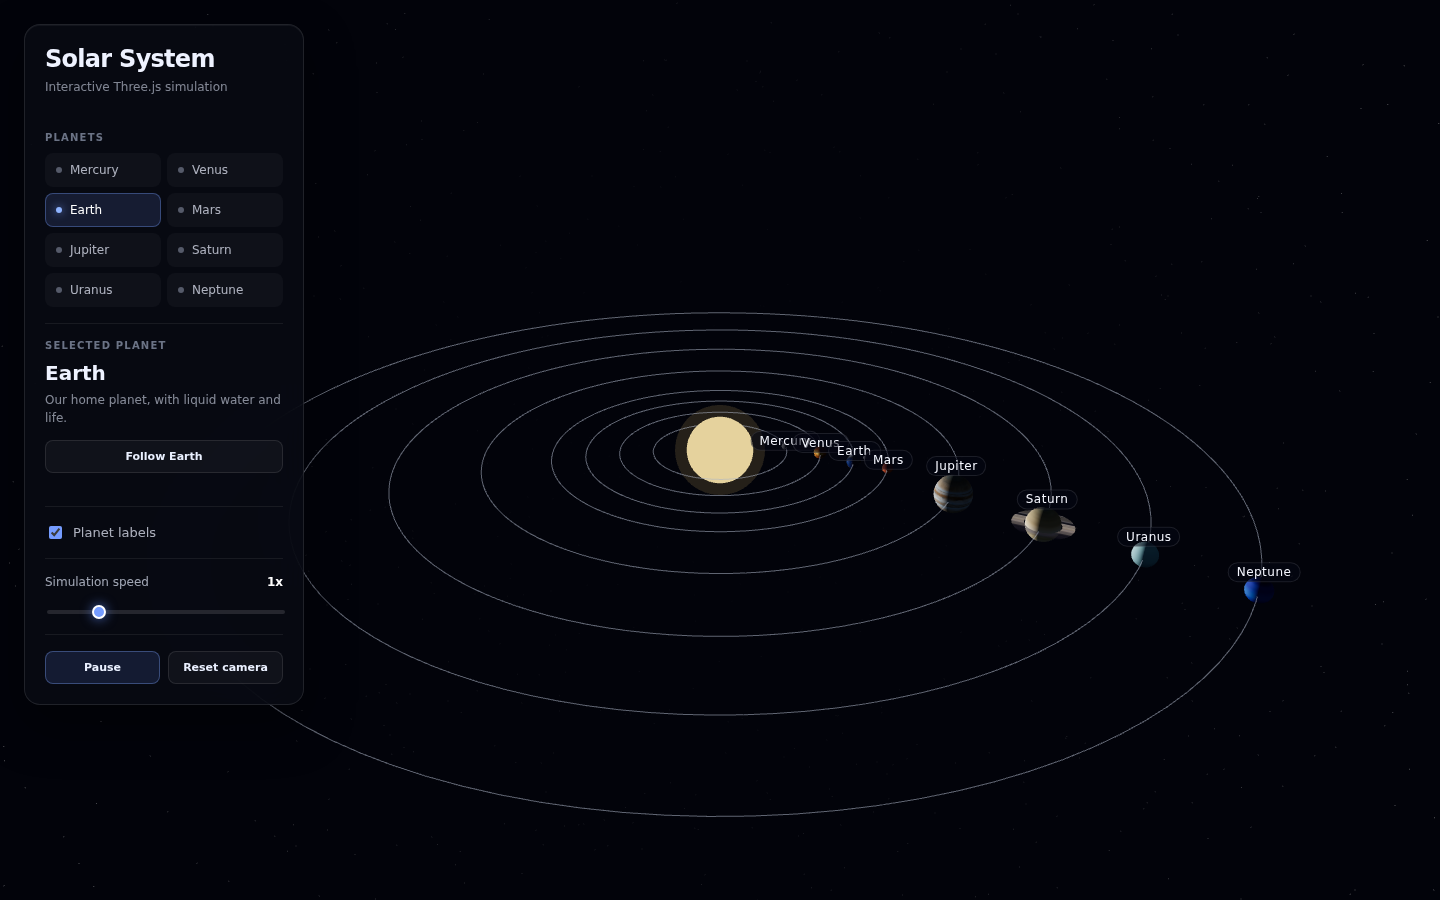
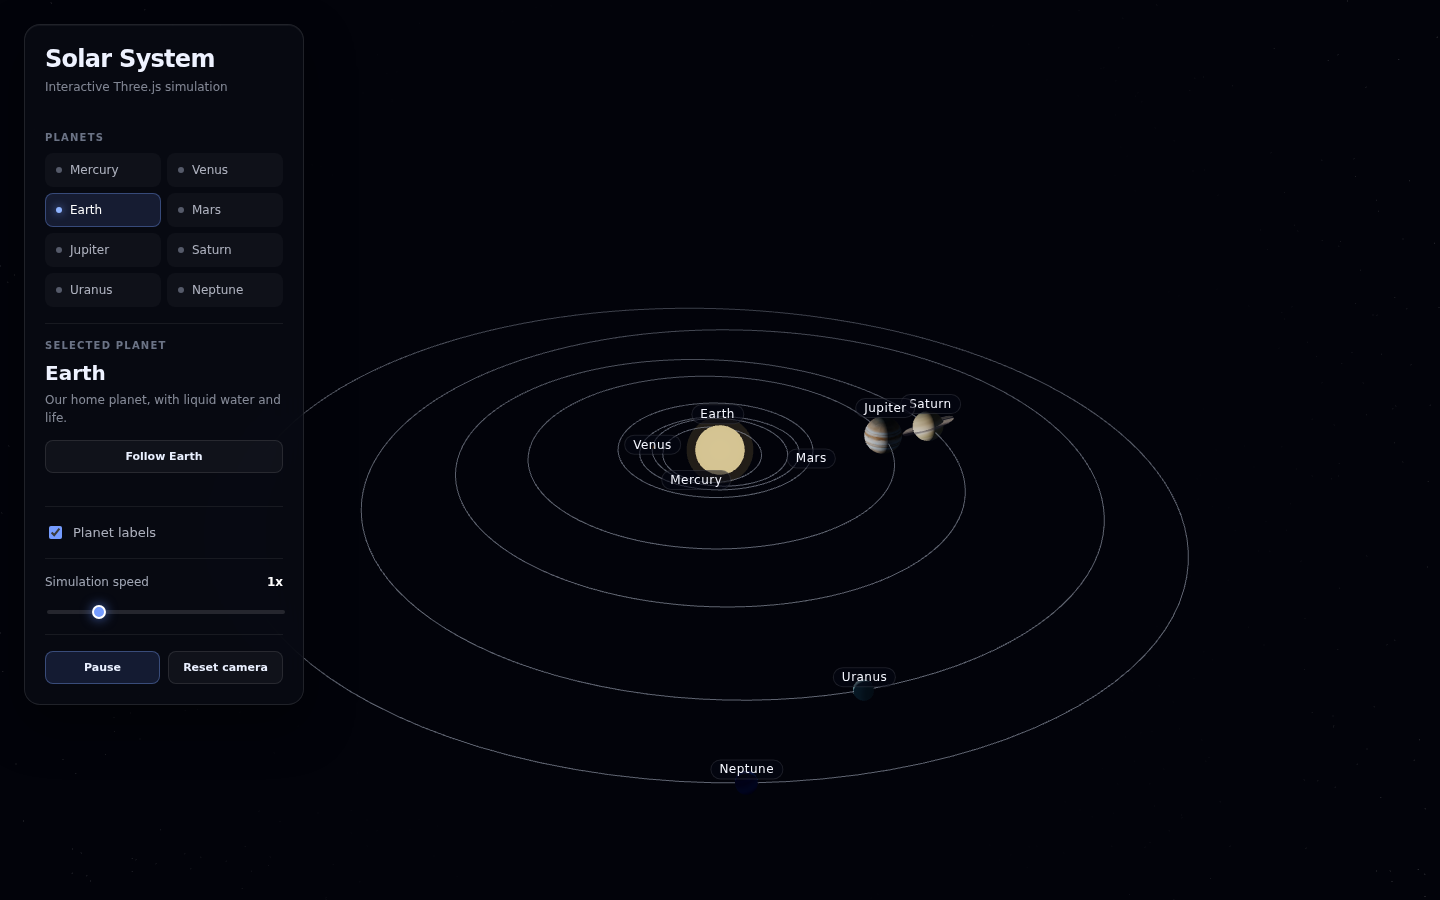
docs: describe the orbits and sizes, and take them off the roadmap
How it works explains the orbital elements, the scale and Kepler's equation; Features, the
screenshots and CLAUDE.md follow, with a new invariant for the order of the planets and the stylised
values listed as known limitations.

diff --git a/CLAUDE.md b/CLAUDE.md
@@ -50,9 +50,10 @@ scripts/         README screenshots
 
 ## 5. Architecture
 
-- **`CONFIG` drives everything.** Camera, renderer, controls, focus behaviour, the Sun, stars, orbits, and `CONFIG.planets` (size, distance, speeds, description). The UI planet buttons are built from the same object, so adding a planet to `CONFIG.planets` and `TEXTURES` adds it to the scene _and_ the panel. Materials, the ambient light, Earth's cloud shell, Saturn's ring and `CONFIG.simulation.timeScale` (which turns the config's speeds into radians per second, through `simulationStep`) live there too: no number in the code below `CONFIG` is a tuning value.
+- **`CONFIG` drives everything.** Camera, renderer, controls, focus behaviour, the Sun, stars, orbits, and `CONFIG.planets` (radius in km, J2000 orbital elements, axial tilt, speeds, description), with `CONFIG.scale` turning kilometres and AU into scene units. The UI planet buttons are built from the same object, so adding a planet to `CONFIG.planets` and `TEXTURES` adds it to the scene _and_ the panel. Materials, the ambient light, Earth's cloud shell, Saturn's ring and `CONFIG.simulation.timeScale` (which turns the config's speeds into radians per second, through `simulationStep`) live there too: no number in the code below `CONFIG` is a tuning value.
 - **Loading.** A `THREE.LoadingManager` drives the progress bar (`#loader-bar`, `#loader-status`); `hideLoader()` removes it when every texture has loaded. Texture URLs are built from `import.meta.env.BASE_URL`, which is relative (`./`) in builds. With reduced motion there is no fade and so no `transitionend`, so the loader is removed at once rather than left at opacity 0, where screen readers would still read it.
-- **Structure of a planet.** An orbit pivot (a rotating `Object3D` at the Sun) holds the planet mesh at its distance. Earth has a second, transparent cloud sphere rotating on its own. The Moon has its own pivot on Earth. Saturn gets a ring mesh with a transparent texture.
+- **Structure of a planet.** An anchor `Object3D`, added to the scene in config order, is placed on the planet's ellipse every frame; under it, a tilt group carries the real axial tilt and holds the spinning mesh. Earth has a second, transparent cloud sphere rotating on its own, and the Moon a pivot on the anchor. Saturn's ring is a child of its mesh, so it shares Saturn's tilt.
+- **Orbits.** `orbitGeometry` turns the elements into `semiMajor`, `semiMinor`, `eccentricity`, two plane directions (`towardsPerihelion`, `quarterOnward`) and the J2000 `startingMeanAnomaly`. `updatePlanetRotation` advances `planet.meanAnomaly` by `orbitSpeed` × `simulationStep`, and `placeOnOrbit` solves Kepler's equation (`solveKepler`, Newton's method) and writes the position with `pointOnOrbit`. `createOrbit` traces the line through `pointOnOrbit` too. `sceneRadius` converts kilometres; `planet.radius` holds the result, and nothing reads a radius from the config directly.
 - **Animation** is driven by elapsed time, multiplied by the simulation speed, so it is frame-rate independent. Pause sets the speed multiplier to zero and keeps rendering, so the controls still work.
 - **Panel.** `createUI` puts the header first and wraps every other section (`planetListMarkup`, `planetInfoMarkup`, `labelsControlMarkup`, `speedControlMarkup`, `actionsMarkup`) in `#panel-body`; `queryUIElements` collects what the code updates and `bindUIEvents` wires it. `setPanelFolded` sets `data-folded`, the toggle's `aria-expanded` and text, and the summary; `focusPlanet` folds the panel when `phoneLayout` (the same `width <= 640px` as style.css) matches. The CSS folds only inside that media query.
 - **Focus and follow.** `focusPlanet` sets `state.followed`, computes where the camera ends relative to the planet (`focusOffset`) and starts `state.flight` (or jumps, with reduced motion). Each frame `updateFollow` either advances the flight (`updateFlight`, eased, towards the planet's current position, controls disabled) or rides along (`rideAlong`: camera and target turned around the Y axis by the angle the planet travelled, then moved with it). `stopFollowing` leaves the camera where it is. `updateFollowUI` keeps `#follow-button` (`aria-pressed`) and the `#follow-status` live region in step.
@@ -67,11 +68,12 @@ scripts/         README screenshots
 3. The UI element ids (`#planet-name`, `#pause-button`, `#speed`, `#speed-value`, `#loader`, `#follow-button`, `#follow-status`, `#panel-toggle`, `#panel-summary`, `#labels-toggle`, `.planet-label`) are used by the tests.
 4. Texture credits (CC BY 4.0) stay in the README.
 5. Pixel ratio is capped (`getPixelRatio()`) for performance on HiDPI screens.
+6. **Planets in config order.** `init` registers the planets and adds their anchors to the scene in `CONFIG.planets` order, after every texture has loaded; labels, picking and the panel rely on it. Do not register a planet inside `createPlanet`, where textures decide the order.
 
 ## 7. Conventions (project-specific)
 
 - **One config:** sizes, distances, speeds, colours and counts live in `CONFIG` at the top of `src/main.js`; the scene and the UI are both built from it.
-- **Hierarchy over maths:** motion is composed from pivots (`Object3D`) rather than computed positions.
+- **Real data, one scale:** planets are described in kilometres, AU and degrees, as published; only `CONFIG.scale` and the values marked stylised are choices of this project.
 - **Time:** every animated value is multiplied by the frame delta and the speed multiplier, never by a per-frame constant.
 - **Plain JavaScript:** ES modules, no framework, no UI library; the UI is created in code and styled with plain CSS.
 
@@ -81,7 +83,7 @@ scripts/         README screenshots
 
 ## 9. Recipes
 
-- **Add a planet:** add an entry to `CONFIG.planets` (radius, distance, orbit and rotation speed, description) and a texture in `TEXTURES` and `public/textures/<name>/`, as WebP.
+- **Add a planet:** add an entry to `CONFIG.planets` (radius in km, the six J2000 orbital elements, axial tilt, orbit and rotation speed, description) and a texture in `TEXTURES` and `public/textures/<name>/`, as WebP.
 - **Change the look:** tweak `CONFIG` first; the factories read from it.
 
 ## 10. CI/CD
@@ -99,7 +101,7 @@ The jobs are _Lint and types_ (formatting and lint), _Build_ (uploads `dist/`), 
 
 ## 12. Known limitations
 
-- Circular orbits and stylised sizes and distances (see the roadmap in the README).
+- The Sun's size, the Moon's distance and the orbital and spin speeds are stylised (see How it works in the README); distances are compressed by a square root.
 
 ## House style (identical in every repository of this portfolio)
 

diff --git a/README.md b/README.md
@@ -13,9 +13,10 @@ Eight textured planets orbit a light-emitting Sun against a procedurally generat
 
 ## Features
 
-- Eight planets with individual textures, sizes, orbital distances and rotation speeds
+- Eight planets on elliptical, inclined orbits from their real orbital elements, moving faster near the Sun as Kepler's laws say, and starting where they were on 1 January 2000
+- True relative sizes, with Jupiter eleven times Earth's width, and the real axial tilts: Uranus rolls on its side, Venus spins upside down
 - Earth rendered as two layers: a surface sphere plus a semi-transparent cloud shell rotating at its own rate
-- The Moon orbiting Earth on its own pivot
+- The Moon orbiting Earth on its own pivot, at a stylised distance
 - Saturn with a textured ring mesh
 - Visible orbit lines for every planet
 - Procedural star field of 5,000 points
@@ -39,7 +40,7 @@ No framework, no UI library. Tested with [Playwright](https://playwright.dev/).
 
 A single `Scene` holds everything. A `PerspectiveCamera` (50° FOV) is driven by `OrbitControls` with damping and clamped zoom distance. The `WebGLRenderer` is configured with `SRGBColorSpace` output, ACES filmic tone mapping, anisotropic filtering on every texture, and a pixel ratio capped at 2 so high-DPI screens don't render four times the pixels for no visible gain. A `Fog` fades distant objects into the background colour.
 
-All tunable values (radii, orbital distances, speeds, colours, star count, light intensity) live in a single `CONFIG` object at the top of `src/main.js`, so the look of the scene can be changed without touching the logic.
+All tunable values (planet sizes and orbital elements, the scale, speeds, colours, star count, light intensity) live in a single `CONFIG` object at the top of `src/main.js`, so the look of the scene can be changed without touching the logic.
 
 ### Lighting
 
@@ -47,14 +48,17 @@ A `PointLight` placed inside the Sun mesh lights the planets from the centre out
 
 ### Planets and orbits
 
-Each planet is a `SphereGeometry` mesh with a `MeshPhongMaterial`, positioned at its orbital distance and parented to an `Object3D` pivot at the origin. Rotating the pivot moves the planet along its orbit; rotating the mesh spins the planet on its axis. Orbit lines are built from an `EllipseCurve` sampled into a `LineLoop`.
+Each planet is described by real data: its radius in kilometres, its axial tilt, and the six classical orbital elements for the J2000 epoch (semi-major axis, eccentricity, inclination, longitude of the ascending node, longitude of perihelion, mean longitude). `CONFIG.scale` turns them into scene units. Sizes are linear, so the planets keep their true ratios; distances go through a square root, which keeps every orbit's order and shape while bringing Neptune's 30 AU within reach of Mercury's 0.39. Two things stay stylised and say so in the config: the Sun, which at the planets' scale would be 109 Earth radii wide and swallow the inner orbits, and the Moon's distance.
+
+From the elements, each orbit gets its size and two directions that span its plane: towards perihelion, and a quarter of an orbit further on. On every frame the mean anomaly grows evenly with simulated time; Newton's method solves Kepler's equation, M = E − e sin E, for the eccentric anomaly, and the planet sits at a(cos E − e) along the first direction and b sin E along the second, with the Sun at a focus. That is what makes Mercury, the most eccentric, visibly hurry past the Sun and slow down far from it. The orbit lines are traced through the same function, so a planet never leaves its line. The orbital speeds themselves are stylised: at the real ratio, Neptune would take 165 Earth years to go round once.
 
 ```
-Object3D (orbit pivot, rotates → orbital motion)
-  └── Mesh (planet, rotates → axial spin)
-        ├── Mesh (clouds / rings)
-        └── Object3D (moon pivot)
-              └── Mesh (moon)
+Object3D (anchor, placed on the ellipse every frame)
+  └── Object3D (tilt, the planet's real axial tilt)
+        └── Mesh (planet, rotates → axial spin)
+              └── Mesh (clouds / rings)
+  └── Object3D (moon pivot)
+        └── Mesh (moon)
 ```
 
 ### Star field
@@ -152,7 +156,6 @@ Pushing to `master` runs formatting and lint, then builds the site and runs the 
 
 ## Roadmap
 
-- [ ] Elliptical orbits and more accurate relative sizes
 - [ ] Bloom and other post-processing on the Sun
 - [ ] TypeScript migration
 
